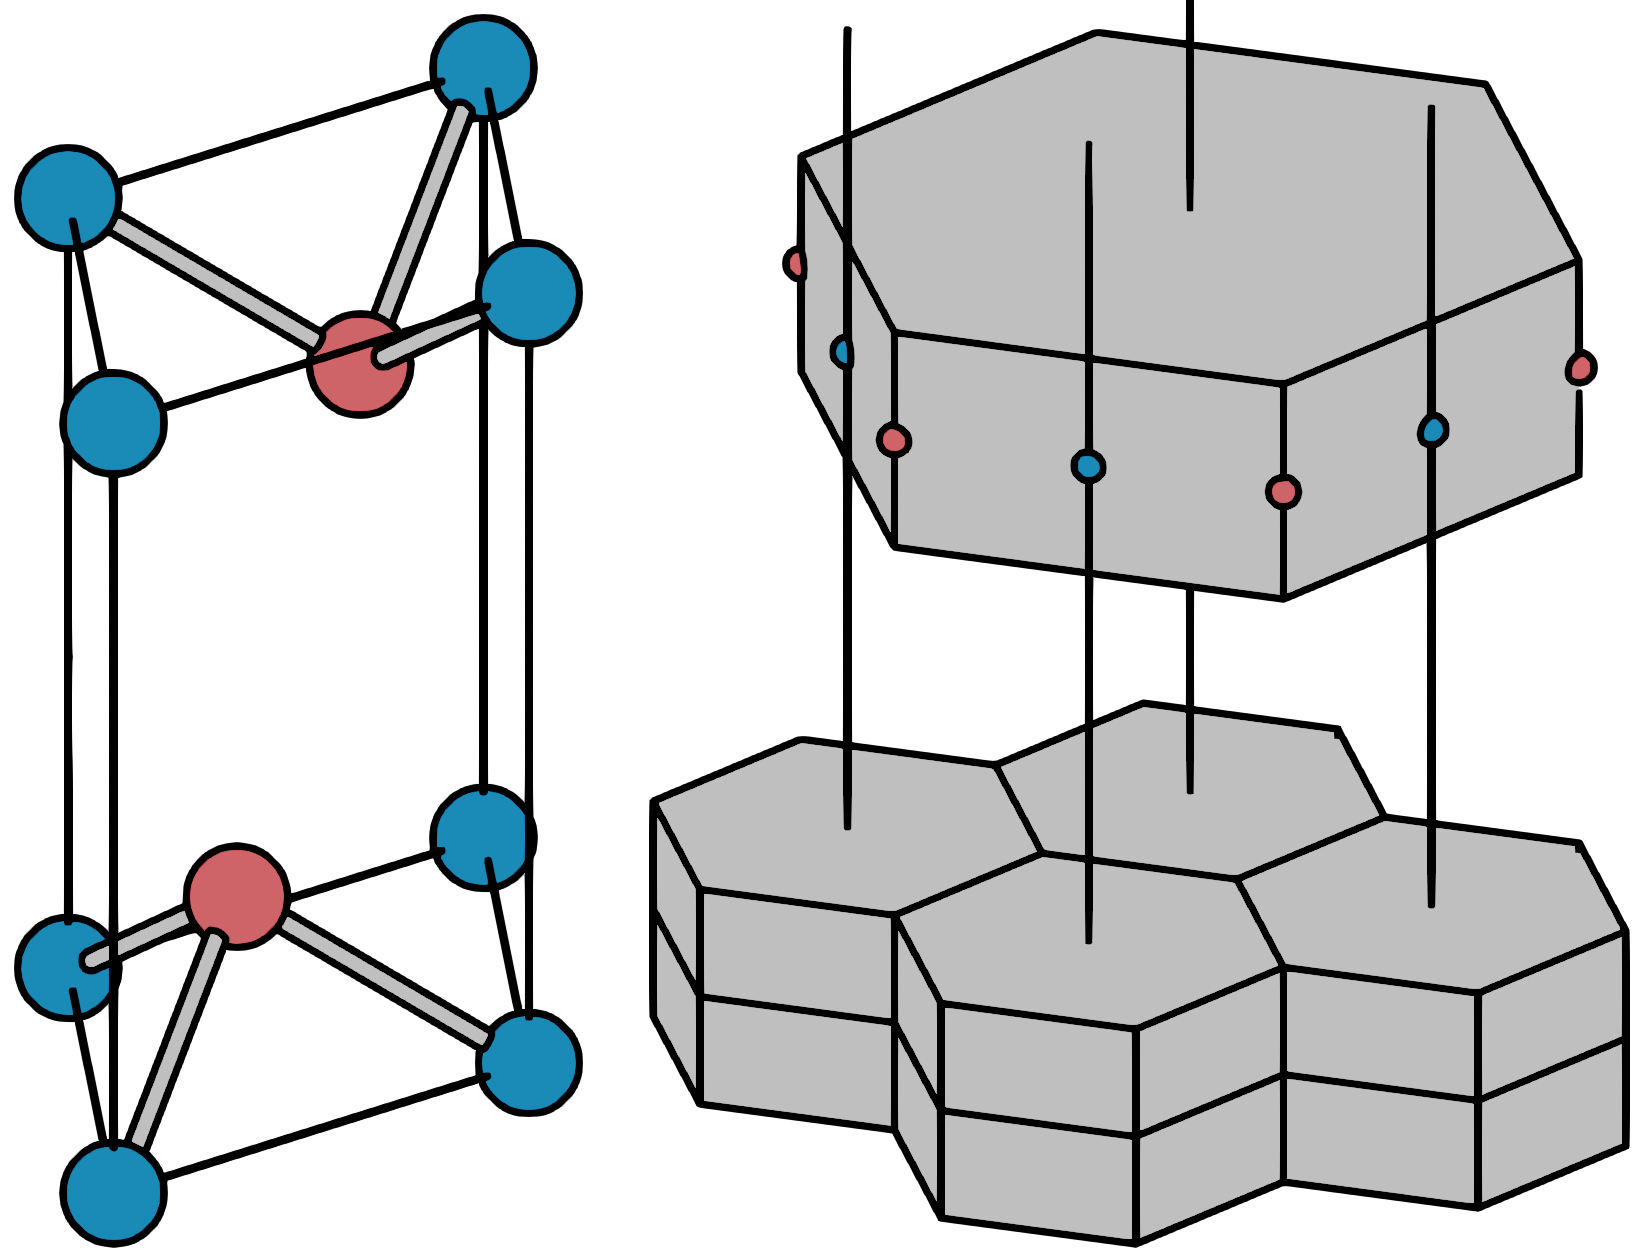
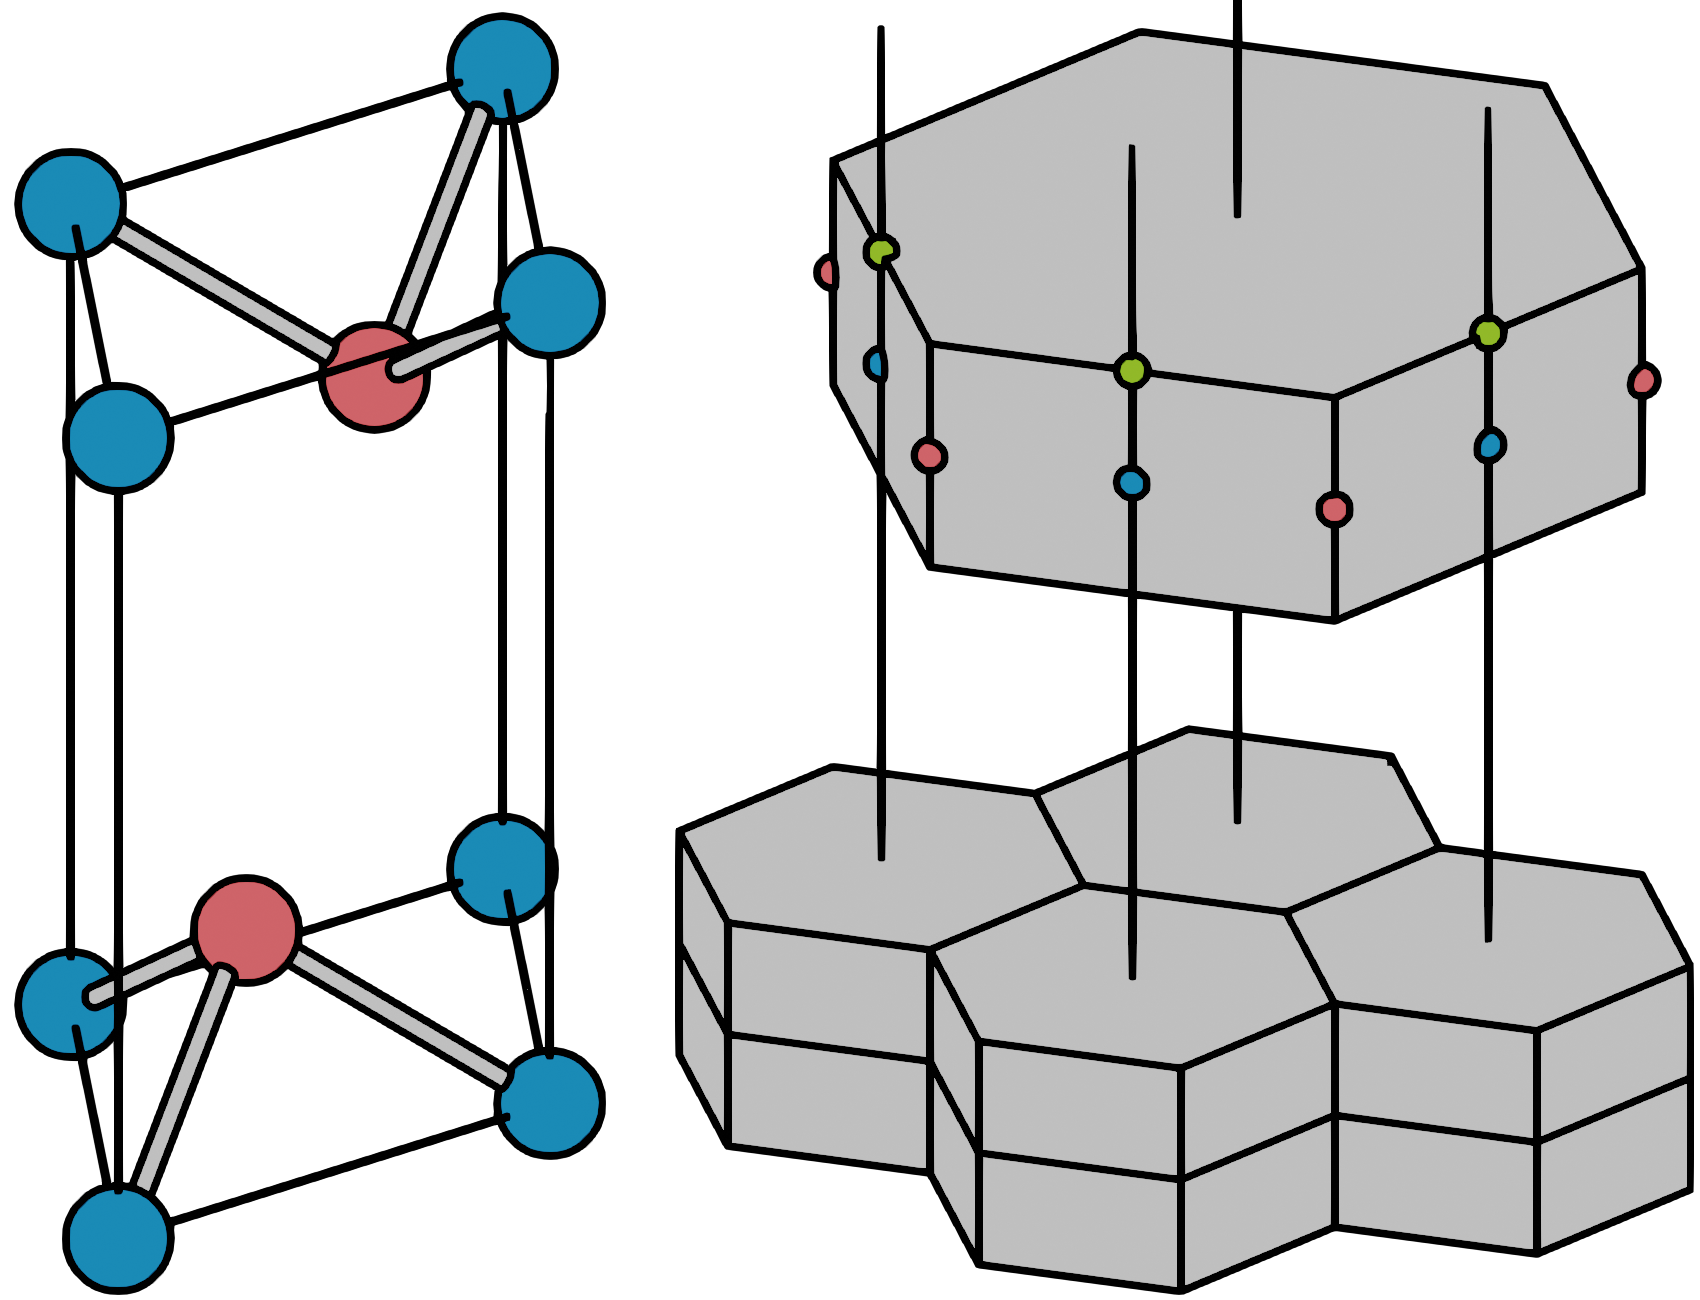
fixes

diff --git a/content/review.tex b/content/review.tex
@@ -15,7 +15,7 @@ The material shows semi-metallic electronic characteristics\cite{bachrach1976}, 
 	\end{minipage}
 	\hspace{0.04\columnwidth}
 	\begin{minipage}{0.45\columnwidth}
-		\caption{\textbf{a)}\,Hexagonal unit cell of \ts, comprised of one Ti atom and two Se atoms. Ti atoms are shown in blue, Se atoms in red. \textbf{b)}\,\ac{BZ} of the high temperature phase (top) and low temperature phase (bottom) of \ts. Blue/red spheres mark M/L points in the \ac{BZ}}
+		\caption{\textbf{a)}\,Hexagonal unit cell of \ts, comprised of one Ti atom and two Se atoms. Ti atoms are shown in blue, Se atoms in red. \textbf{b)}\,\ac{BZ} of the high temperature phase (top) and low temperature phase (bottom) of \ts. Blue/red/green spheres mark M/K/L points in the \ac{BZ}}
 		\label{fig:crystal}
 	\end{minipage}
 \end{figure}

diff --git a/TODO.md b/TODO.md
@@ -1,5 +1,3 @@
 - add vectors to fig:crystal
-- fix L/K-points
-- align unit cell and bz
 - why plasmon softening
 - for procrastination: https://tex.stackexchange.com/questions/1492/passing-parameters-to-a-document
